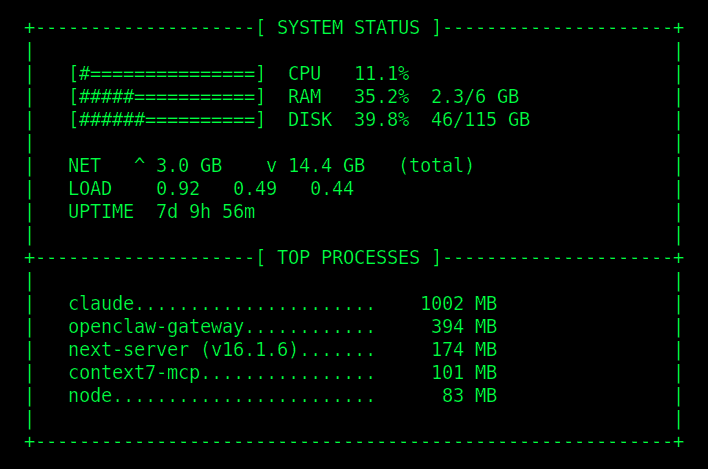
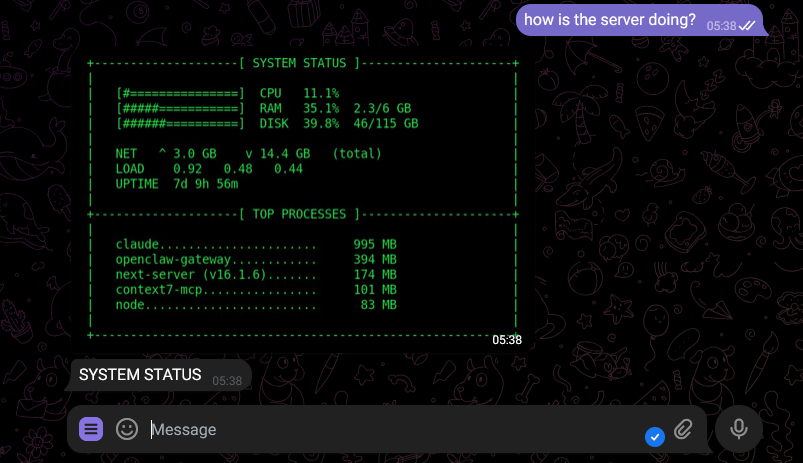
Update README and screenshot to emphasize visual image feature
Clarify that the main purpose of vpsmon is to send a visual image of the system status rather than a plain text message. Replace the example screenshot with the actual Telegram output.

diff --git a/README.md b/README.md
@@ -1,6 +1,8 @@
 # vpsmon
 
-A fast, zero-dependency VPS system monitor written in **Zig**. Reads metrics directly from `/proc/` and renders a hacker-style ASCII dashboard — optionally as a PNG image with green-on-black terminal aesthetics.
+A fast, zero-dependency VPS system monitor written in **Zig**. Reads metrics directly from `/proc/` and renders a hacker-style ASCII dashboard.
+
+**The main purpose of this tool is to send a visual image of your system status instead of a plain text message.** It generates a PNG image with green-on-black terminal aesthetics — perfect for Telegram, WhatsApp, or Discord bot integrations.
 
 ![screenshot](assets/screenshot.png)
 
